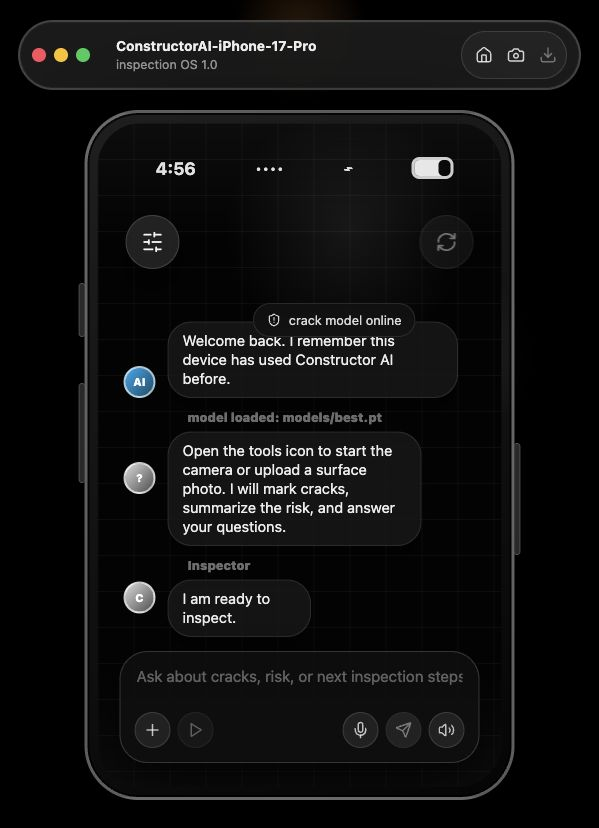
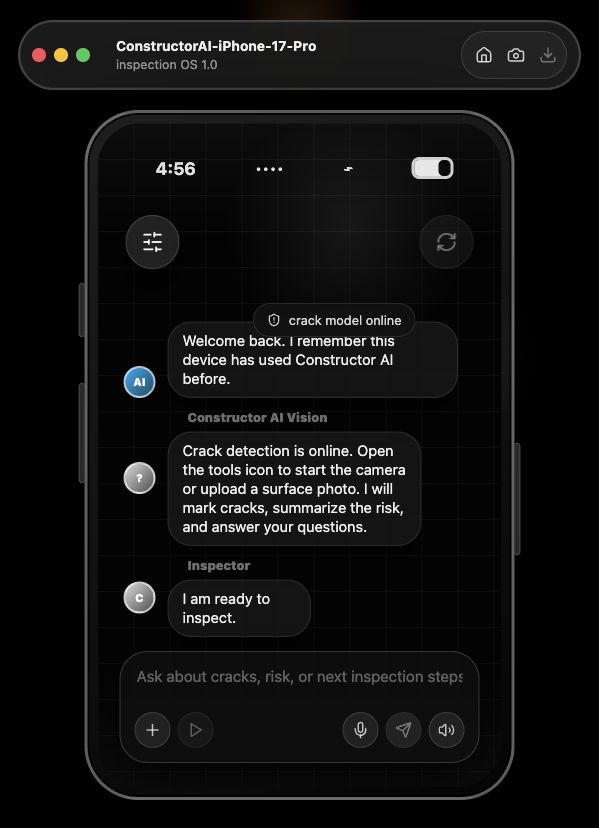
Hide technical model path in app chat

Changed region(s): [[0.3005, 0.4831, 0.6912, 0.6643]]

diff --git a/frontend/src/App.tsx b/frontend/src/App.tsx
@@ -61,7 +61,8 @@ const copy = {
     spanish: "Spanish",
     modelOnline: "crack model online",
     fallback: "smoke-test mode",
-    modelLoaded: "model loaded",
+    modelStatusTitle: "Constructor AI Vision",
+    modelStatus: "Crack detection is online.",
     welcomeFirst: "Hello, I am your construction inspection AI.",
     welcomeBack: "Welcome back. I remember this device has used Constructor AI before.",
     instructions: "Open the tools icon to start the camera or upload a surface photo. I will mark cracks, summarize the risk, and answer your questions.",
@@ -95,7 +96,8 @@ const copy = {
     spanish: "Espanol",
     modelOnline: "modelo de grietas activo",
     fallback: "modo de prueba",
-    modelLoaded: "modelo cargado",
+    modelStatusTitle: "Vision Constructor AI",
+    modelStatus: "La deteccion de grietas esta activa.",
     welcomeFirst: "Hola, soy tu IA de inspeccion de construccion.",
     welcomeBack: "Bienvenido de nuevo. Recuerdo que este dispositivo ya uso Constructor AI.",
     instructions: "Abre el icono de herramientas para iniciar la camara o subir una foto. Marcare grietas, resumire el riesgo y respondere tus preguntas.",
@@ -356,7 +358,6 @@ function App() {
 
   const risk = analysis?.summary.risk ?? "clear";
   const defectTrained = analysis?.defectTrained ?? modelHealth?.defectTrained ?? false;
-  const modelName = analysis?.model ?? modelHealth?.model ?? "checking model";
   const detectionCount = analysis?.detections.length ?? 0;
   const defectCount = analysis?.summary.defectCount ?? 0;
   const t = copy[language];
@@ -485,8 +486,8 @@ function App() {
               <div className="chat-row ai named">
                 <div className="avatar gray">?</div>
                 <div>
-                  <span className="sender">{t.modelLoaded}: {modelName}</span>
-                  <p>{t.instructions}</p>
+                  <span className="sender">{t.modelStatusTitle}</span>
+                  <p>{defectTrained ? `${t.modelStatus} ${t.instructions}` : t.instructions}</p>
                 </div>
               </div>
               {question && (